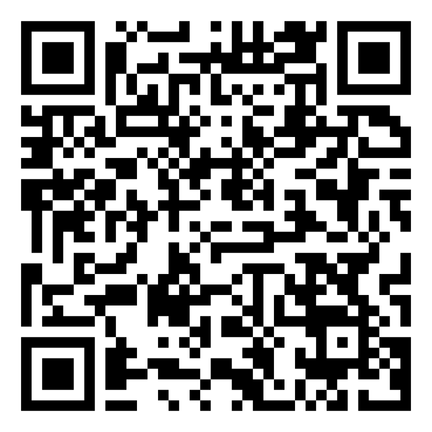
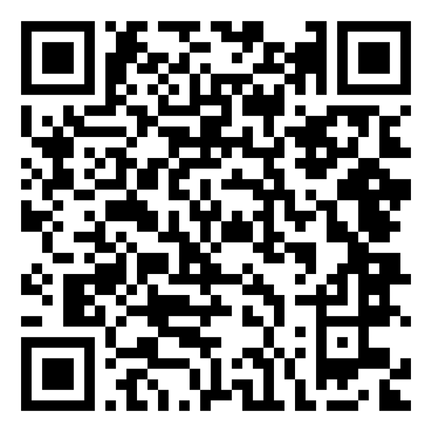
Update APK QR image and download link
Replaced the express_apk_qr.png asset and updated the APK download link in DownloadAppPopup.jsx to point to a new Google Drive file.

diff --git a/webexpress/src/components/DownloadAppPopup.jsx b/webexpress/src/components/DownloadAppPopup.jsx
@@ -159,7 +159,7 @@ const DownloadAppPopup = ({ open, onClose }) => {
             width: '100%'
           }}>
             <a
-              href="https://drive.google.com/uc?export=download&id=1kUykCA4L9awtt1Lp_vVRfcwai2R-H_qO"
+              href="https://drive.google.com/uc?export=download&id=1jZF77ErGHax8T9XwxneRfGVKjgvPIJa4"
               target="_blank"
               rel="noopener noreferrer"
               style={{
